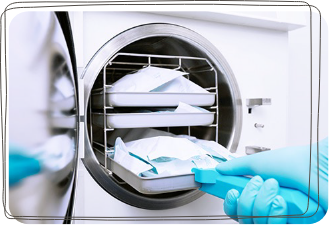
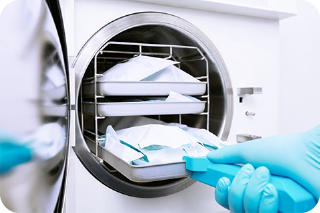
Update

diff --git a/index.html b/index.html
@@ -632,48 +632,60 @@
                 <div class="el__box row wow fadeInUp">
                     <div class="col-6 col-md-4">
                         <a href="#" class="el__item">
-                            <div class="el__thumb">
-                                <img src="./images/home-clinic-1.png" alt="">
+                            <div class="el__thumb -border-1">
+                                <div class="dnfix__thumb">
+                                    <img src="./images/home-clinic-1.png" alt="">
+                                </div>
                             </div>
                             <div class="el__title">受付</div>
                         </a>
                     </div>
                     <div class="col-6 col-md-4">
                         <a href="#" class="el__item">
-                            <div class="el__thumb">
-                                <img src="./images/home-clinic-2.png" alt="">
+                            <div class="el__thumb -border-2">
+                                <div class="dnfix__thumb">
+                                    <img src="./images/home-clinic-2.png" alt="">
+                                </div>
                             </div>
                             <div class="el__title">キッズスペース</div>
                         </a>
                     </div>
                     <div class="col-6 col-md-4">
                         <a href="#" class="el__item">
-                            <div class="el__thumb">
-                                <img src="./images/home-clinic-3.png" alt="">
+                            <div class="el__thumb -border-3">
+                                <div class="dnfix__thumb">
+                                    <img src="./images/home-clinic-3.png" alt="">
+                                </div>
                             </div>
                             <div class="el__title">カウンセリングルーム</div>
                         </a>
                     </div>
                     <div class="col-6 col-md-4">
                         <a href="#" class="el__item">
-                            <div class="el__thumb">
-                                <img src="./images/home-clinic-4.png" alt="">
+                            <div class="el__thumb -border-3">
+                                <div class="dnfix__thumb">
+                                    <img src="./images/home-clinic-4.png" alt="">
+                                </div>
                             </div>
                             <div class="el__title">ファミリー診療室</div>
                         </a>
                     </div>
                     <div class="col-6 col-md-4">
                         <a href="#" class="el__item">
-                            <div class="el__thumb">
-                                <img src="./images/home-clinic-5.png" alt="">
+                            <div class="el__thumb -border-1">
+                                <div class="dnfix__thumb">
+                                    <img src="./images/home-clinic-5.png" alt="">
+                                </div>
                             </div>
                             <div class="el__title">滅菌器</div>
                         </a>
                     </div>
                     <div class="col-6 col-md-4">
                         <a href="#" class="el__item">
-                            <div class="el__thumb">
-                                <img src="./images/home-clinic-6.png" alt="">
+                            <div class="el__thumb -border-2">
+                                <div class="dnfix__thumb">
+                                    <img src="./images/home-clinic-6.png" alt="">
+                                </div>
                             </div>
                             <div class="el__title">電動麻酔器</div>
                         </a>

diff --git a/assets/sass/_pages/_home.scss b/assets/sass/_pages/_home.scss
@@ -556,6 +556,16 @@
        }
        
     }
+    @media (max-width: 1199px){
+        &__wrap {
+            &:before{
+                right: 0;
+            }
+            &:after{
+                left: 0;
+            }
+        }
+    }
     @media (max-width: 991px){
         &__wrap {
             padding: 80px 60px 80px;
@@ -1393,6 +1403,35 @@
             line-height: 35px;
             color: #504B46;
         }
+        &__thumb{
+            position: relative;
+            img{
+                border-radius: 15px;
+            }
+
+            &:after{
+                content: "";
+                background-image: url(../../assets/img/home-clinic-border.png);
+                background-repeat: no-repeat;
+                background-position: center;
+                background-size: 100% 100%;
+                position: absolute;
+                top: -15px;
+                left: -12px;
+                width: calc(100% + 6px);
+                height: calc(100% + 10px);
+            }
+            &.-border-2{
+                &:after{
+                    background-image: url(../../assets/img/home-clinic-border-2.png);
+                }
+            }
+            &.-border-3{
+                &:after{
+                    background-image: url(../../assets/img/home-clinic-border-3.png);
+                }
+            }
+        }
     }
     @media (max-width: 575px){
         .el__header {
@@ -1639,17 +1678,49 @@
     padding-bottom: 100px;
     .el{
         &__line{
+            position: relative;
             width: 100%;
-            height: 17px;
+            height: 13px;
             margin: 15px 0;
             background-image: url(../../assets/img/home-3box-line-1.png);
             background-repeat:no-repeat;
             background-position: center;
             background-size: contain;
+            &::before,&::after{
+                content: "";
+                position: absolute;
+                top: 2px;
+                left: 0px;
+                width: 13px;
+                height: 13px;
+                background-image: url(../../assets/img/dot.png);
+                background-repeat: no-repeat;
+                background-position: center;
+                background-size: contain;
+            }
+            &::before{
+                left: -2px;
+            }
+            &::after{
+                top: -2px;
+                left: auto;
+                right: -1px;
+            }
+            
             &.-s2{
                 background-image: url(../../assets/img/home-3box-line-2.png);
+                &::before{
+                    top: 0;
+                }
+                &::after{
+                    left: auto;
+                    top: 2px;
+                    right: -1px;
+                }
             }
+    
         }
+
         &__col{
             position: relative;
             &:not(:last-child)::after{
@@ -1743,12 +1814,12 @@
     }
     @media (max-width: 575px){
         .el{
-            &__line{
-                background-image: url(../../assets/img/home-3box-line-1-mb.png);
-                &.-s2{
-                    background-image: url(../../assets/img/home-3box-line-2-mb.png);
-                }
-            }
+            // &__line{
+            //     background-image: url(../../assets/img/home-3box-line-1-mb.png);
+            //     &.-s2{
+            //         background-image: url(../../assets/img/home-3box-line-2-mb.png);
+            //     }
+            // }
         }
     }
 }

diff --git a/assets/css/main.css b/assets/css/main.css
@@ -2382,6 +2382,11 @@ body.show-menu {
       max-width: 170px;
       padding-right: 10px;
       color: #DEB69B; }
+  @media (max-width: 1199px) {
+    .home-info__wrap:before {
+      right: 0; }
+    .home-info__wrap:after {
+      left: 0; } }
   @media (max-width: 991px) {
     .home-info__wrap {
       padding: 80px 60px 80px; }
@@ -3011,6 +3016,25 @@ body.show-menu {
     font-size: 23px;
     line-height: 35px;
     color: #504B46; }
+  .home-clinic .el__thumb {
+    position: relative; }
+    .home-clinic .el__thumb img {
+      border-radius: 15px; }
+    .home-clinic .el__thumb:after {
+      content: "";
+      background-image: url(../../assets/img/home-clinic-border.png);
+      background-repeat: no-repeat;
+      background-position: center;
+      background-size: 100% 100%;
+      position: absolute;
+      top: -15px;
+      left: -12px;
+      width: calc(100% + 6px);
+      height: calc(100% + 10px); }
+    .home-clinic .el__thumb.-border-2:after {
+      background-image: url(../../assets/img/home-clinic-border-2.png); }
+    .home-clinic .el__thumb.-border-3:after {
+      background-image: url(../../assets/img/home-clinic-border-3.png); }
   @media (max-width: 575px) {
     .home-clinic .el__header {
       margin-bottom: 50px; }
@@ -3208,15 +3232,39 @@ body.show-menu {
 .home-3box {
   padding-bottom: 100px; }
   .home-3box .el__line {
+    position: relative;
     width: 100%;
-    height: 17px;
+    height: 13px;
     margin: 15px 0;
     background-image: url(../../assets/img/home-3box-line-1.png);
     background-repeat: no-repeat;
     background-position: center;
     background-size: contain; }
+    .home-3box .el__line::before, .home-3box .el__line::after {
+      content: "";
+      position: absolute;
+      top: 2px;
+      left: 0px;
+      width: 13px;
+      height: 13px;
+      background-image: url(../../assets/img/dot.png);
+      background-repeat: no-repeat;
+      background-position: center;
+      background-size: contain; }
+    .home-3box .el__line::before {
+      left: -2px; }
+    .home-3box .el__line::after {
+      top: -2px;
+      left: auto;
+      right: -1px; }
     .home-3box .el__line.-s2 {
       background-image: url(../../assets/img/home-3box-line-2.png); }
+      .home-3box .el__line.-s2::before {
+        top: 0; }
+      .home-3box .el__line.-s2::after {
+        left: auto;
+        top: 2px;
+        right: -1px; }
   .home-3box .el__col {
     position: relative; }
     .home-3box .el__col:not(:last-child)::after {
@@ -3279,11 +3327,6 @@ body.show-menu {
           padding-left: 15px; }
         .home-3box .el__col:nth-child(3n) .el__item {
           padding-right: 15px; } }
-  @media (max-width: 575px) {
-    .home-3box .el__line {
-      background-image: url(../../assets/img/home-3box-line-1-mb.png); }
-      .home-3box .el__line.-s2 {
-        background-image: url(../../assets/img/home-3box-line-2-mb.png); } }
 
 .header__textclgt {
   margin-top: 15px; }
